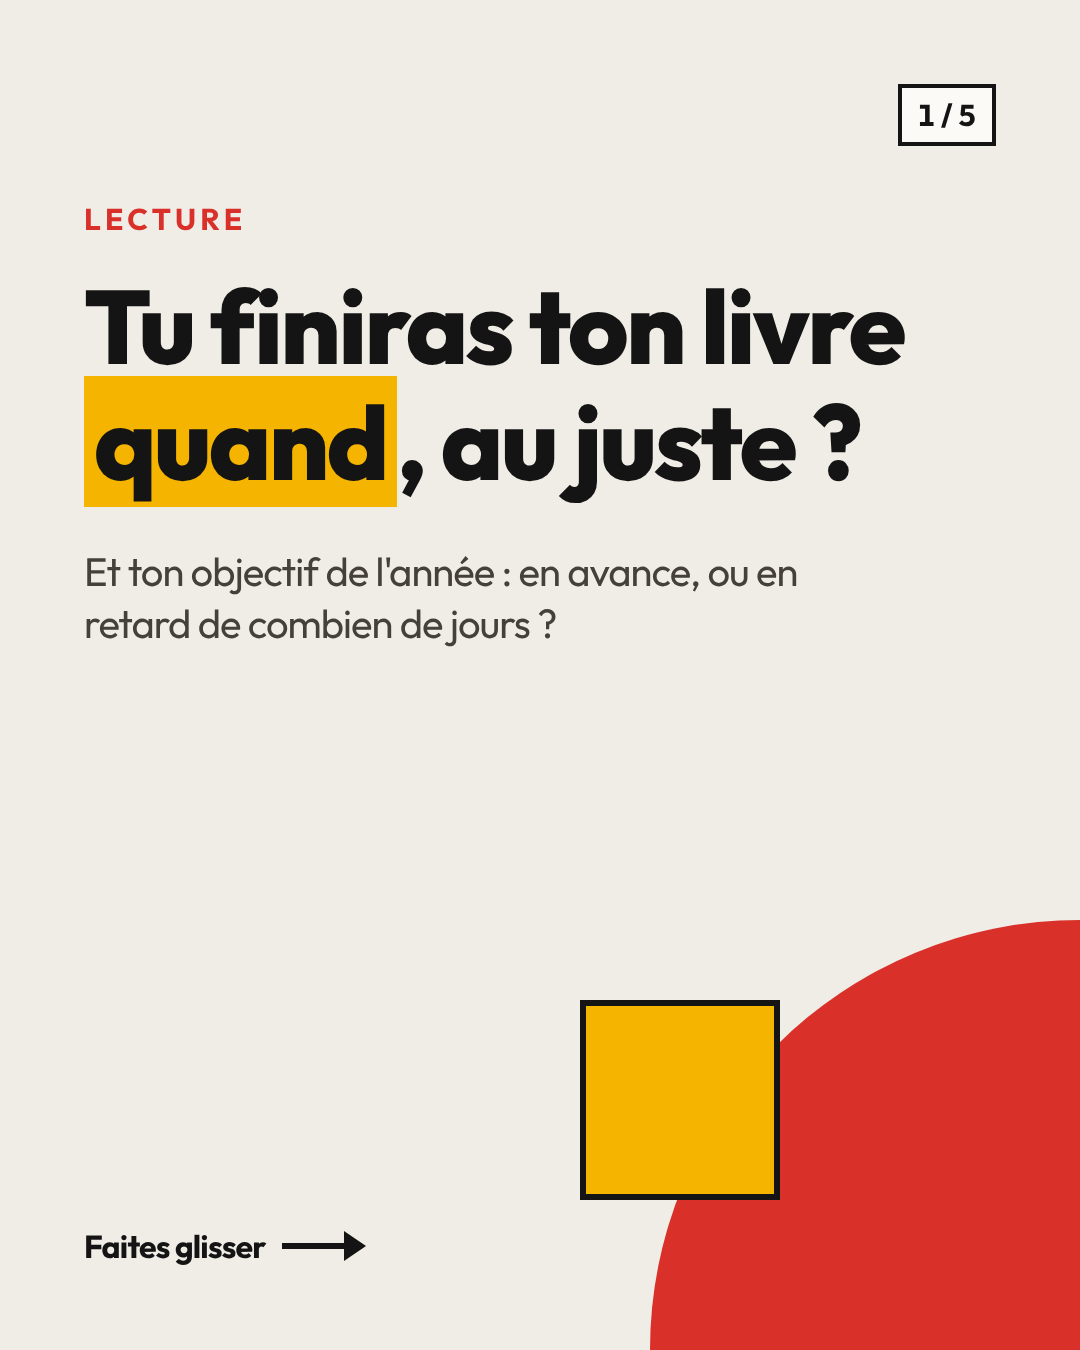
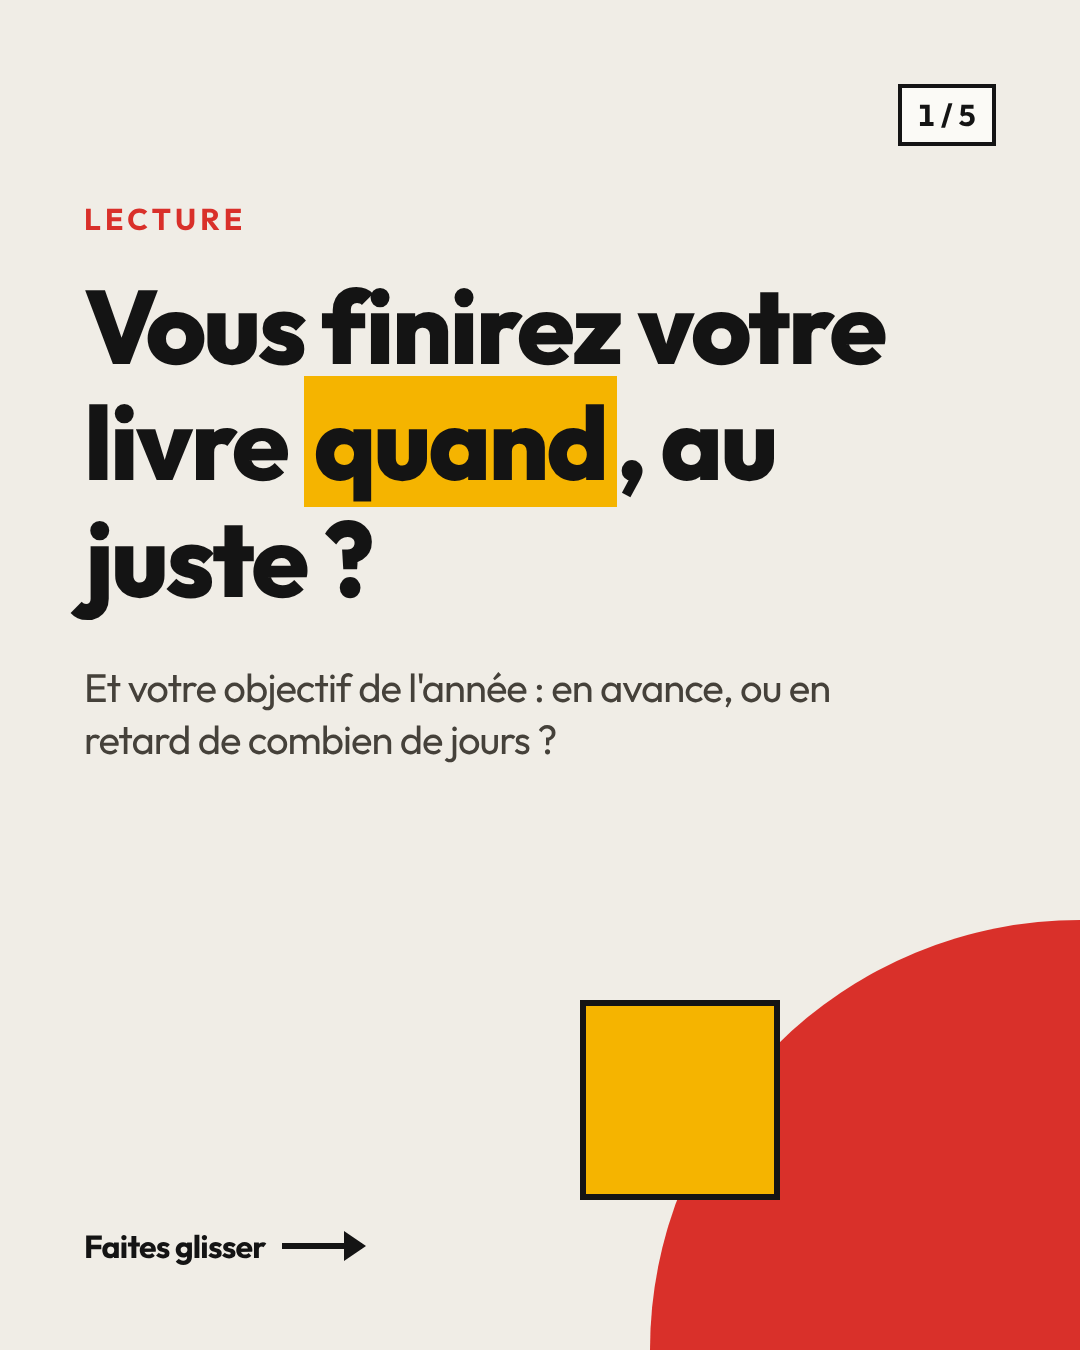
T17 : carrousel et légende Instagram au vouvoiement (kit Instagram)
Claude-Session: https://claude.ai/code/session_0183EW51SDRppizLurpYxvrX

Changed region(s): [[0.0611, 0.1867, 0.8556, 0.56]]

diff --git a/docs/templates/communication/lecture/instagram/carrousel.html b/docs/templates/communication/lecture/instagram/carrousel.html
@@ -101,8 +101,8 @@ h1,h2,p{letter-spacing:-.025em}
   <span class="compteur">1 / 5</span>
   <div class="titre">
     <p class="sourcil" style="color:var(--rouge)">Lecture</p>
-    <h1 style="margin-top:30px">Tu finiras ton livre <mark>quand</mark>, au juste ?</h1>
-    <p class="sous">Et ton objectif de l'année : en avance, ou en retard de combien de jours ?</p>
+    <h1 style="margin-top:30px">Vous finirez votre livre <mark>quand</mark>, au juste ?</h1>
+    <p class="sous">Et votre objectif de l'année : en avance, ou en retard de combien de jours ?</p>
   </div>
   <div class="fa"></div><div class="fb"></div>
   <p class="glisser">Faites glisser <span></span></p>
@@ -125,14 +125,14 @@ h1,h2,p{letter-spacing:-.025em}
   <div class="tel"><img src="../../../../../assets/templates-lecture-tel.webp" alt=""></div>
   <div class="points">
     <div><b>Une session en deux secondes</b>La page atteinte, ou les minutes écoutées.</div>
-    <div><b>Ton rythme</b>Et la date où tu finiras ton livre.</div>
-    <div><b>Ta bibliothèque</b>Papier, numérique et audio, notes et citations.</div>
+    <div><b>Votre rythme</b>Et la date où vous finirez votre livre.</div>
+    <div><b>Votre bibliothèque</b>Papier, numérique et audio, notes et citations.</div>
   </div>
   <p class="note">Données fictives</p>
 </section>
 
 <section class="cadre post car2" id="lecture-4">
-  <div class="bandeau"><p class="sourcil">La vue clé</p><h2>Ton objectif de l'année, au jour près.</h2></div>
+  <div class="bandeau"><p class="sourcil">La vue clé</p><h2>Votre objectif de l'année, au jour près.</h2></div>
   <span class="compteur">4 / 5</span>
   <div class="fenetre"><img src="../../../../../assets/templates-lecture-objectif.webp" alt=""></div>
   <div class="points">

diff --git a/docs/templates/communication/lecture/instagram.md b/docs/templates/communication/lecture/instagram.md
@@ -16,37 +16,37 @@ interne proposé pour le planning : **« Template · Suivi de lecture »**.
 
 ## Vues
 
-1. Couverture-question (papier) : « Tu finiras ton livre quand, au juste ? » / Et ton objectif de l'année : en
+1. Couverture-question (papier) : « Vous finirez votre livre quand, au juste ? » / Et votre objectif de l'année : en
    avance, ou en retard de combien de jours ?
 2. Le problème (fond encre) : une pile de livres, et aucune idée du rythme.
 3. Ce que fait le template (bandeau bleu, capture téléphone `templates-lecture-tel.webp`, 3 points) : Lis, on
    compte.
-4. La vue clé (bandeau jaune, extrait de `templates-lecture-objectif.webp`) : ton objectif de l'année, au jour près.
+4. La vue clé (bandeau jaune, extrait de `templates-lecture-objectif.webp`) : votre objectif de l'année, au jour près.
 5. Appel à l'action (fond jaune), 12 €, renvoi au sur mesure.
 
 ## Accroches (première ligne de la légende)
 
-- **Variante A (retenue)** : Tu finiras ton livre quand, au juste ?
+- **Variante A (retenue)** : Vous finirez votre livre quand, au juste ?
 - **Variante B** : 24 livres en janvier. Combien en novembre ?
 
 ## Textes alternatifs
 
-1. Titre « Tu finiras ton livre quand, au juste ? » sur fond clair, sous-titre « Et ton objectif de l'année : en avance, ou en retard de combien de jours ? », formes géométriques rouge et jaune.
+1. Titre « Vous finirez votre livre quand, au juste ? » sur fond clair, sous-titre « Et votre objectif de l'année : en avance, ou en retard de combien de jours ? », formes géométriques rouge et jaune.
 2. Fond noir : une pile de livres, et aucune idée du rythme. Un marque-page dans le livre en cours, une liste à lire dans un coin du téléphone, un objectif de 24 livres fixé en janvier, et en novembre il en manque quatre.
-3. Le template Suivi de lecture : lis, on compte. Capture sur téléphone de deux livres en cours avec leur progression, leur rythme et leur date de fin estimée. Une session en deux secondes, ton rythme, ta bibliothèque papier, numérique et audio. Livres inventés, données fictives.
-4. Ton objectif de l'année, au jour près. Capture de l'objectif : 20 livres sur 24, 14 jours de retard, jauge avec le repère attendu, cumul des livres terminés mois par mois. Avance ou retard en jours, statistiques. Données fictives.
+3. Le template Suivi de lecture : lis, on compte. Capture sur téléphone de deux livres en cours avec leur progression, leur rythme et leur date de fin estimée. Une session en deux secondes, votre rythme, votre bibliothèque papier, numérique et audio. Livres inventés, données fictives.
+4. Votre objectif de l'année, au jour près. Capture de l'objectif : 20 livres sur 24, 14 jours de retard, jauge avec le repère attendu, cumul des livres terminés mois par mois. Avance ou retard en jours, statistiques. Données fictives.
 5. Fond jaune : essayez-le avec la bibliothèque d'un lecteur fictif, démo libre sans inscription, rien n'est cherché en ligne, achat unique à 12 €. Besoin de plus ? Version sur mesure. Lien en bio.
 
 ## Légende retenue
 
-Tu finiras ton livre quand, au juste ?
+Vous finirez votre livre quand, au juste ?
 
 On se fixe 24 livres en janvier, et en novembre on compte sur ses doigts.
 
 Le Suivi de lecture :
-▪ tient ta bibliothèque papier, numérique et audio, et ta liste à lire par priorité ;
+▪ tient votre bibliothèque papier, numérique et audio, et votre liste à lire par priorité ;
 ▪ transforme chaque session en progression, en rythme et en date de fin estimée ;
-▪ te dit au jour près si tu es en avance ou en retard sur ton objectif de l'année.
+▪ vous dit au jour près si vous êtes en avance ou en retard sur votre objectif de l'année.
 
 Statistiques par mois, genre et auteur, notes et citations. Pas de profil public, rien n'est cherché en ligne. Achat unique, 12 €.
 
